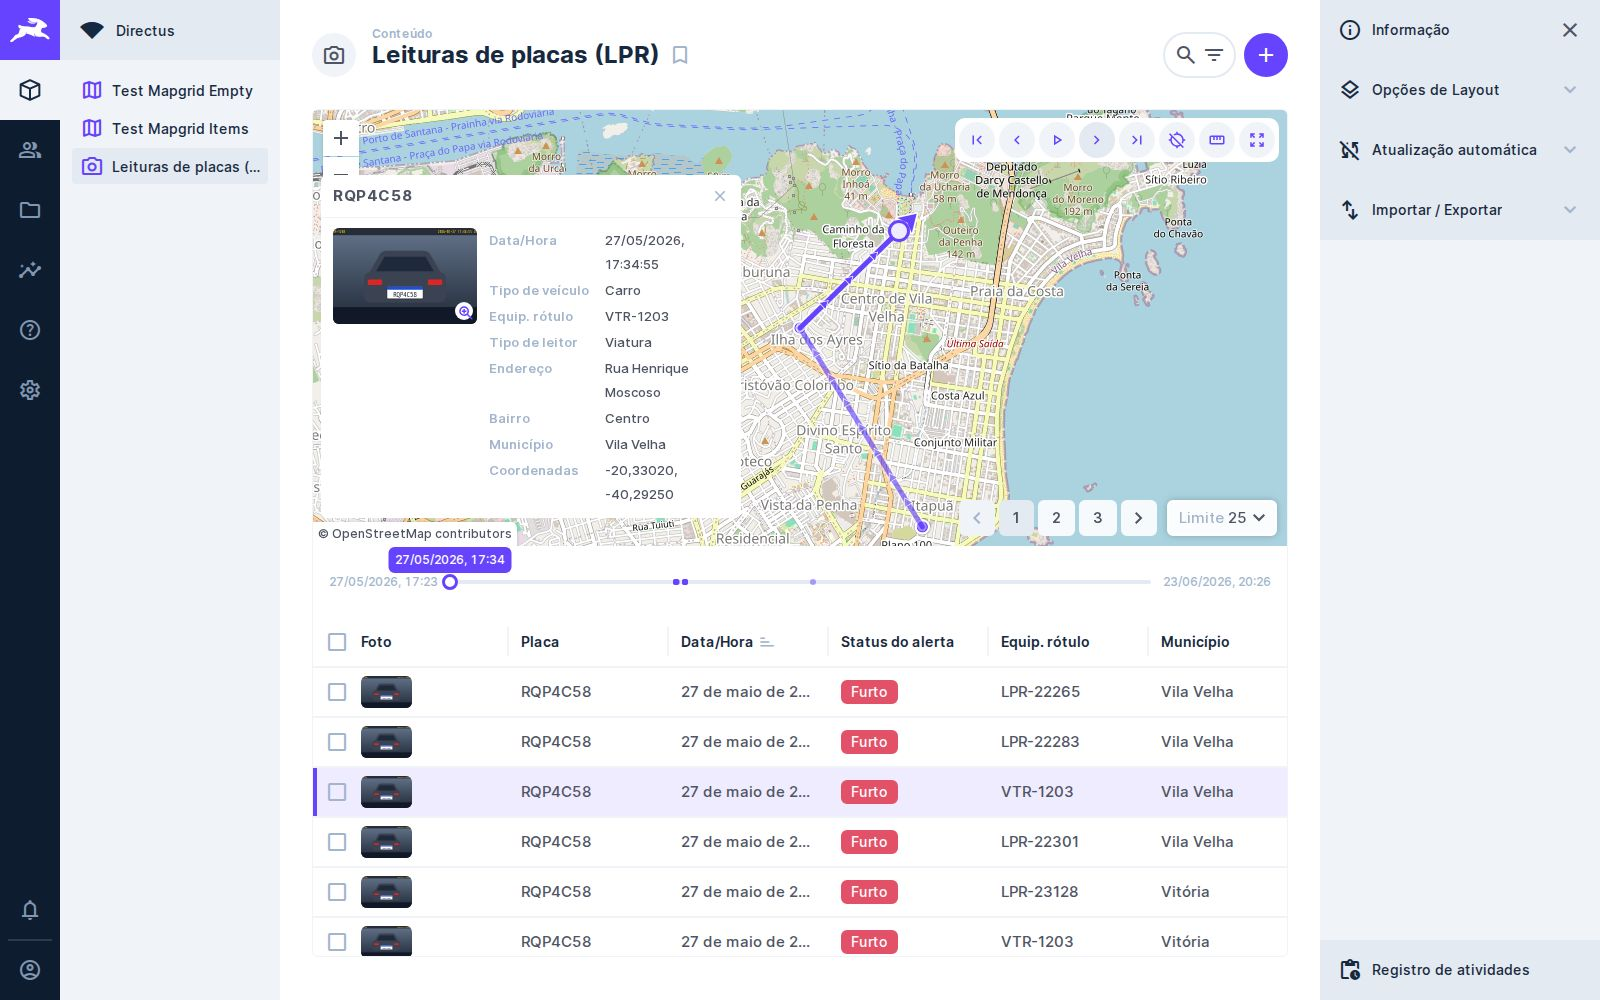
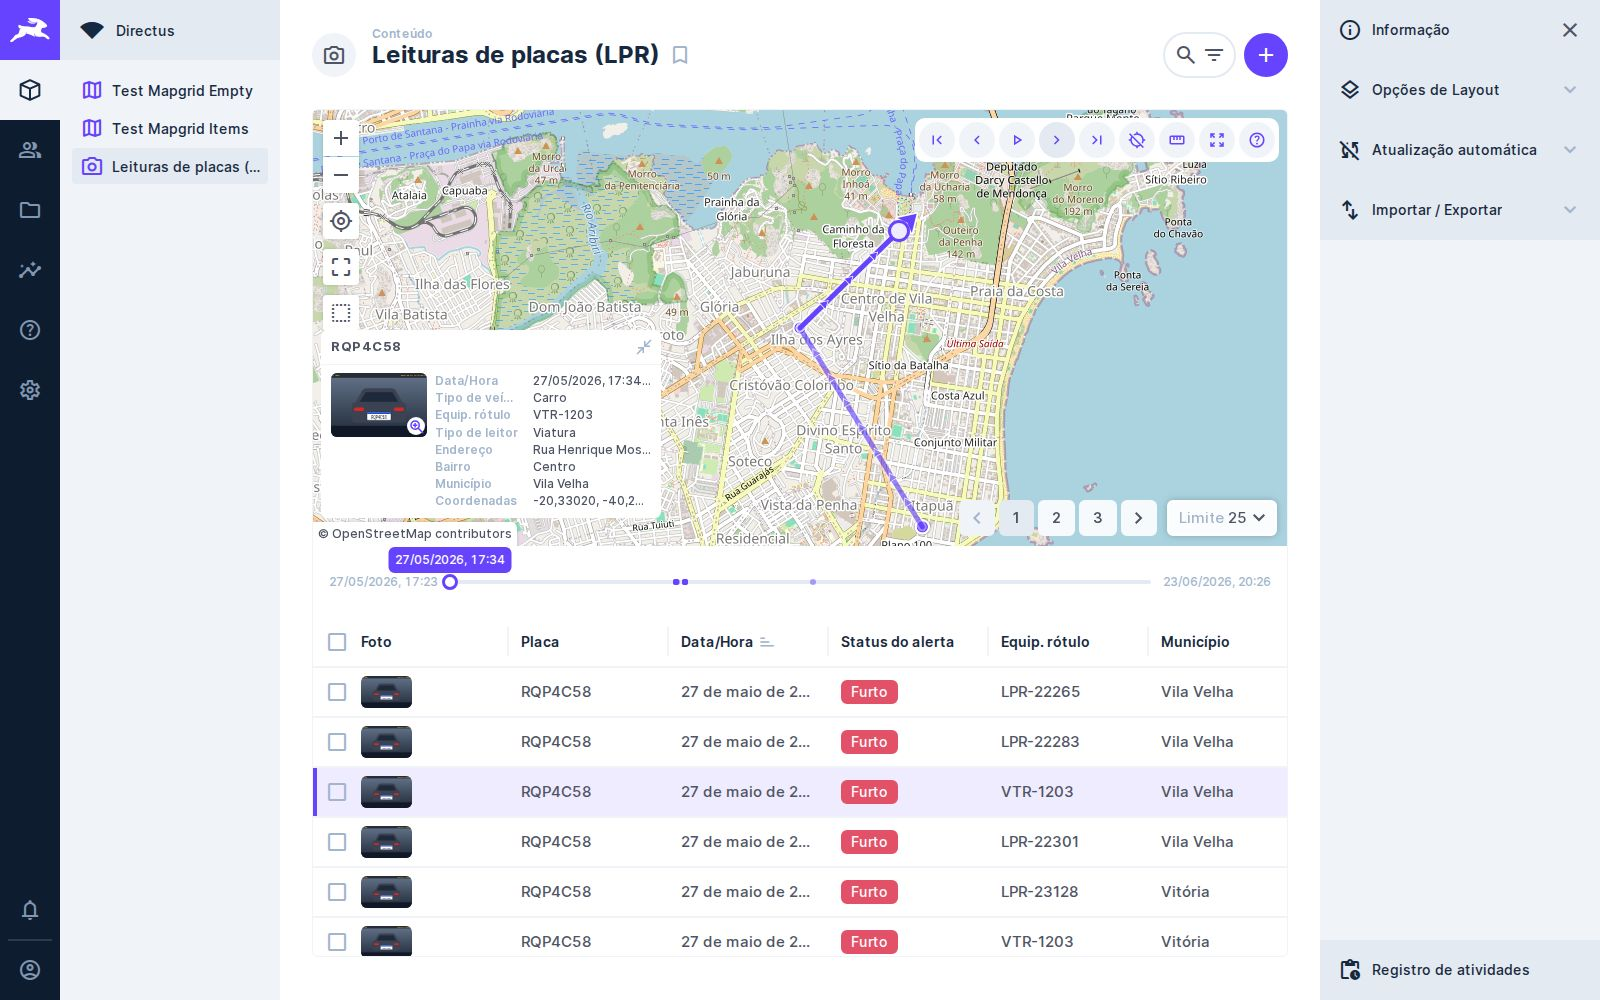
fix: o popup do marcador sobre o rastro, e o card menor que fica recolhido
- o popup de hover do mapa do Directus sobe para z-index 3, acima do rastro
- o card tem 340 px, foto 96x64 e um campo por linha
- fechar recolhe o card num botao, e ele fica recolhido na reproducao
- o preset de teste mescla as opcoes do mapa e nao perde o template do popup

Changed region(s): [[0.1875, 0.155, 0.4688, 0.527], [0.5625, 0.093, 0.625, 0.186], [0.6875, 0.124, 0.7812, 0.155]]

diff --git a/src/components/templates/mapgrid-layout/MapgridLayout.vue b/src/components/templates/mapgrid-layout/MapgridLayout.vue
@@ -38,8 +38,19 @@
           :rows="card.rows"
           :coordinates="card.coordinates"
           :image-url="card.imageUrl"
-          @close="dismissCard"
+          @close="cardCollapsed = true"
         />
+        <button
+          v-else-if="props.showCard === true && cardCollapsed && currentId !== null"
+          type="button"
+          class="mapgrid-card-reopen"
+          data-capture-card-reopen
+          :title="t('cardShow')"
+          @click="cardCollapsed = false"
+        >
+          <v-icon name="badge" small />
+          <span>{{ t('cardShow') }}</span>
+        </button>
         <MapToolbar
           class="mapgrid-toolbar"
           :at-start="atStart"
@@ -682,8 +693,12 @@ const seek = async (position: number): Promise<void> => {
 
 const recordCard = new RecordCard((key) => t(key));
 const cardItem = ref<Record<string, unknown> | null>(null);
-/** Closing the card hides it for that record only; the next one opens it again. */
-const cardDismissedFor = ref<RecordId | null>(null);
+/**
+ * Closing the card collapses it into a button, and it stays collapsed for the
+ * records that follow — playback included — until the button opens it again.
+ * Hiding it for one record only made playback reopen it at every step.
+ */
+const cardCollapsed = ref(false);
 let cardRequest = 0;
 
 const cardFieldList = computed<string[]>(() => {
@@ -693,11 +708,12 @@ const cardFieldList = computed<string[]>(() => {
 });
 
 watch(
-  [currentId, () => props.showCard, cardFieldList, () => props.cardImageField],
+  [currentId, () => props.showCard, cardFieldList, () => props.cardImageField, cardCollapsed],
   () => {
     const request = ++cardRequest;
     const id = currentId.value;
-    if (props.showCard !== true || id === null) {
+    // collapsed, the card is not drawn: fetching for it at every playback step would be waste
+    if (props.showCard !== true || id === null || cardCollapsed.value) {
       cardItem.value = null;
       return;
     }
@@ -727,7 +743,7 @@ const card = computed<{
 } | null>(() => {
   const item = cardItem.value;
   const id = currentId.value;
-  if (!item || id === null || cardDismissedFor.value === id) return null;
+  if (!item || id === null || cardCollapsed.value) return null;
 
   const [first, ...rows] = recordCard.rows(
     item,
@@ -743,14 +759,6 @@ const card = computed<{
     coordinates: coordinate ? recordCard.coordinates(coordinate, locale.value) : null,
     imageUrl: imageId && props.assetUrl ? props.assetUrl(imageId) : null,
   };
-});
-
-const dismissCard = (): void => {
-  cardDismissedFor.value = currentId.value;
-};
-
-watch(currentId, (id) => {
-  if (id !== cardDismissedFor.value) cardDismissedFor.value = null;
 });
 
 const distances = new DistanceMeasure();
@@ -907,6 +915,8 @@ const TOUR_READY_DEADLINE_MS = 2_000;
 const startTour = async (): Promise<void> => {
   stopPlayback();
   if (measuring.value) toggleMeasure();
+  // the tour presents the card, so it has to be open
+  cardCollapsed.value = false;
   if (currentId.value === null) {
     manualStep((position) => sequence.first(position));
     await nextTick();
@@ -1088,11 +1098,38 @@ const mapProps = computed(() => ({
   z-index: 2;
 }
 
-.mapgrid-card {
+.mapgrid-card,
+.mapgrid-card-reopen {
   position: absolute;
   inset-block-end: 28px;
   inset-inline-start: 8px;
   z-index: 2;
+}
+
+.mapgrid-card-reopen {
+  display: inline-flex;
+  align-items: center;
+  gap: 6px;
+  padding: 6px 10px;
+  border-radius: calc(var(--theme--border-radius) + 4px);
+  background: var(--theme--background);
+  color: var(--theme--foreground);
+  font-size: 13px;
+  box-shadow: var(--theme--elevation-2xl);
+  --v-icon-color: var(--theme--primary);
+}
+
+.mapgrid-card-reopen:hover {
+  background: var(--theme--background-accent);
+}
+
+/*
+ * The Directus map's hover popup is `position: fixed` at `z-index: 1`, the same
+ * as the trail and the mark drawn after it — so it came out under the trail.
+ * Above the toolbar and the card too: it is what the pointer is asking for.
+ */
+.mapgrid-pane--map :deep(.layout-map > .popup) {
+  z-index: 3;
 }
 
 /* MapLibre writes the cursor inline on the canvas, so only `!important` wins over it */

diff --git a/src/components/molecules/capture-card/CaptureCard.vue b/src/components/molecules/capture-card/CaptureCard.vue
@@ -6,11 +6,11 @@
         type="button"
         class="capture-card__close"
         data-capture-close
-        :aria-label="t('close')"
-        :title="t('close')"
+        :aria-label="t('cardHide')"
+        :title="t('cardHide')"
         @click="emit('close')"
       >
-        <v-icon name="close" small />
+        <v-icon name="close_fullscreen" small />
       </button>
     </header>
 
@@ -30,12 +30,14 @@
 
       <dl class="capture-card__fields">
         <template v-for="row in props.rows" :key="row.field">
-          <dt>{{ row.label }}</dt>
-          <dd :data-capture-field="row.field">{{ row.value }}</dd>
+          <dt :title="row.label">{{ row.label }}</dt>
+          <dd :data-capture-field="row.field" :title="row.value">{{ row.value }}</dd>
         </template>
         <template v-if="props.coordinates">
           <dt>{{ t('cardCoordinates') }}</dt>
-          <dd data-capture-field="coordinates">{{ props.coordinates }}</dd>
+          <dd data-capture-field="coordinates" :title="props.coordinates">
+            {{ props.coordinates }}
+          </dd>
         </template>
       </dl>
     </div>
@@ -95,28 +97,29 @@ export default {
 .capture-card {
   display: flex;
   flex-direction: column;
-  inline-size: 420px;
+  inline-size: 340px;
   max-inline-size: calc(100% - 16px);
-  max-block-size: calc(100% - 72px);
+  max-block-size: calc(100% - 64px);
   overflow: hidden;
   border-radius: var(--theme--border-radius);
   background: var(--theme--background);
   box-shadow: var(--theme--elevation-2xl);
-  font-size: 13px;
+  font-size: 12px;
+  line-height: 1.35;
 }
 
 .capture-card__header {
   display: flex;
   align-items: center;
   justify-content: space-between;
-  gap: 8px;
-  padding: 8px 8px 8px 12px;
+  gap: 6px;
+  padding: 4px 4px 4px 10px;
   border-block-end: 1px solid var(--theme--border-color-subdued);
 }
 
 .capture-card__title {
   font-weight: 700;
-  font-size: 15px;
+  font-size: 13px;
   letter-spacing: 0.04em;
   color: var(--theme--foreground);
 }
@@ -134,17 +137,18 @@ export default {
 
 .capture-card__body {
   display: flex;
-  gap: 12px;
+  align-items: flex-start;
+  gap: 8px;
   min-block-size: 0;
-  padding: 10px 12px 12px;
+  padding: 8px 10px;
   overflow-y: auto;
 }
 
 .capture-card__photo {
   position: relative;
   flex: none;
-  inline-size: 144px;
-  block-size: 96px;
+  inline-size: 96px;
+  block-size: 64px;
   overflow: hidden;
   border-radius: var(--theme--border-radius);
   cursor: zoom-in;
@@ -159,9 +163,9 @@ export default {
 
 .capture-card__zoom {
   position: absolute;
-  inset-block-end: 4px;
-  inset-inline-end: 4px;
-  padding: 2px;
+  inset-block-end: 2px;
+  inset-inline-end: 2px;
+  padding: 1px;
   border-radius: 50%;
   background: var(--theme--background);
   --v-icon-color: var(--theme--primary);
@@ -170,24 +174,26 @@ export default {
 .capture-card__fields {
   display: grid;
   grid-template-columns: auto minmax(0, 1fr);
-  gap: 2px 8px;
+  gap: 1px 6px;
   margin: 0;
   min-inline-size: 0;
 }
 
 .capture-card__fields dt {
+  max-inline-size: 84px;
+  overflow: hidden;
   color: var(--theme--foreground-subdued);
   white-space: nowrap;
+  text-overflow: ellipsis;
 }
 
-/* the app styles `dd` to one ellipsised line; here the value is the point */
+/* one line per field, so the card stays short over the map; the full value is in the title */
 .capture-card__fields dd {
   margin: 0;
-  overflow: visible;
+  overflow: hidden;
   color: var(--theme--foreground);
-  white-space: normal;
-  text-overflow: clip;
-  overflow-wrap: anywhere;
+  white-space: nowrap;
+  text-overflow: ellipsis;
 }
 
 .capture-card__enlarged {

diff --git a/src/components/templates/mapgrid-layout/MapgridLayout.test.ts b/src/components/templates/mapgrid-layout/MapgridLayout.test.ts
@@ -1265,16 +1265,36 @@ describe('MapgridLayout — the capture card', () => {
     expect(walk.wrapper.get('[data-capture-photo] img').attributes('src')).toBe('/assets/file-1');
   });
 
-  it('stays closed for that record once dismissed', async () => {
-    const { walk } = cardWalk();
+  it('stays collapsed on the records that follow, playback included', async () => {
+    const { walk, fetchItems } = cardWalk();
     await walk.ready();
     await walk.press('next');
     await flush();
 
     walk.wrapper.findComponent({ name: 'CaptureCard' }).vm.$emit('close');
     await flush();
+    const asked = fetchItems.mock.calls.length;
+    await walk.press('next');
+    await flush();
 
     expect(walk.wrapper.find('[data-capture-card]').exists()).toBe(false);
+    expect(walk.wrapper.find('[data-capture-card-reopen]').exists()).toBe(true);
+    // collapsed, nothing is fetched for it
+    expect(fetchItems.mock.calls.length).toBe(asked);
+  });
+
+  it('opens again from the button it collapsed into', async () => {
+    const { walk } = cardWalk();
+    await walk.ready();
+    await walk.press('next');
+    await flush();
+    walk.wrapper.findComponent({ name: 'CaptureCard' }).vm.$emit('close');
+    await flush();
+
+    await walk.wrapper.get('[data-capture-card-reopen]').trigger('click');
+    await flush();
+
+    expect(walk.wrapper.find('[data-capture-card]').exists()).toBe(true);
   });
 
   it('is not shown unless asked for', async () => {

diff --git a/tests/helpers/lpr-collection.ts b/tests/helpers/lpr-collection.ts
@@ -692,12 +692,15 @@ export async function ensureLprMapGrid(
     filter: overrides.filter ?? null,
     layout_options: {
       mapgrid: {
+        zoomOnClick: false,
+        ...overrides.options,
+        // merged, not replaced: a preset that only sets the camera kept losing the
+        // popup's template, and the popup fell back to the record's id
         map: {
           geometryField: 'location',
           displayTemplate: '{{plate}} · {{equipment_label}} · {{alert_status}}',
+          ...(overrides.options?.map as Record<string, unknown> | undefined),
         },
-        zoomOnClick: false,
-        ...overrides.options,
       },
     },
     layout_query: {

diff --git a/src/shared/messages.ts b/src/shared/messages.ts
@@ -66,6 +66,8 @@ export const MESSAGES = {
     cardEnlarge: 'Enlarge the photo',
     cardCoordinates: 'Coordinates',
     cardNoPhoto: 'No photo',
+    cardShow: 'Card',
+    cardHide: 'Collapse the card',
     timelineLabel: 'Timeline',
     timelineSeek: 'Drag to jump to a moment of the trip',
     optionHeading: 'Direction',
@@ -187,6 +189,8 @@ export const MESSAGES = {
     cardEnlarge: 'Ampliar a foto',
     cardCoordinates: 'Coordenadas',
     cardNoPhoto: 'Sem foto',
+    cardShow: 'Card',
+    cardHide: 'Recolher o card',
     timelineLabel: 'Linha do tempo',
     timelineSeek: 'Arraste para ir a um momento da viagem',
     optionHeading: 'Sentido',

diff --git a/TASKS/task-025-os-pedidos-do-geohub-sobre-a-colecao-lpr.md b/TASKS/task-025-os-pedidos-do-geohub-sobre-a-colecao-lpr.md
@@ -64,6 +64,21 @@ implementadas junto.
 | Pré-visualização ao clicar no ponto | Card da captura com foto |
 | Medição da distância | Ferramenta de medição |
 
+### O card recolhe, e fica recolhido
+Primeira versão: fechar escondia o card só para aquele registro, e a
+reprodução o reabria a cada passo. Agora fechar o recolhe num botão "Card" no
+canto, e ele fica assim nos registros seguintes — reprodução inclusive, sem
+buscar nada para ele — até o botão abri-lo. A apresentação guiada o reabre
+para mostrá-lo. E ficou menor: 340 px, foto de 96×64 e um campo por linha, com
+o valor inteiro no `title`.
+
+### O balão do marcador ficava atrás do rastro
+O popup de passar o mouse do mapa do Directus é `position: fixed` com
+`z-index: 1`, o mesmo do rastro e da marca, que vêm depois no DOM. Subiu para
+3, acima também da barra e do card. E o template dele (`placa · leitor ·
+status`) se perdia quando um preset só definia a câmera: `ensureLprMapGrid`
+agora mescla as opções do mapa em vez de trocá-las.
+
 ### O clique durante a medição
 A medição escuta o clique na fase de captura do painel do mapa e o interrompe:
 enquanto ela está ligada, o mapa do Directus nunca vê o clique, e nenhum
